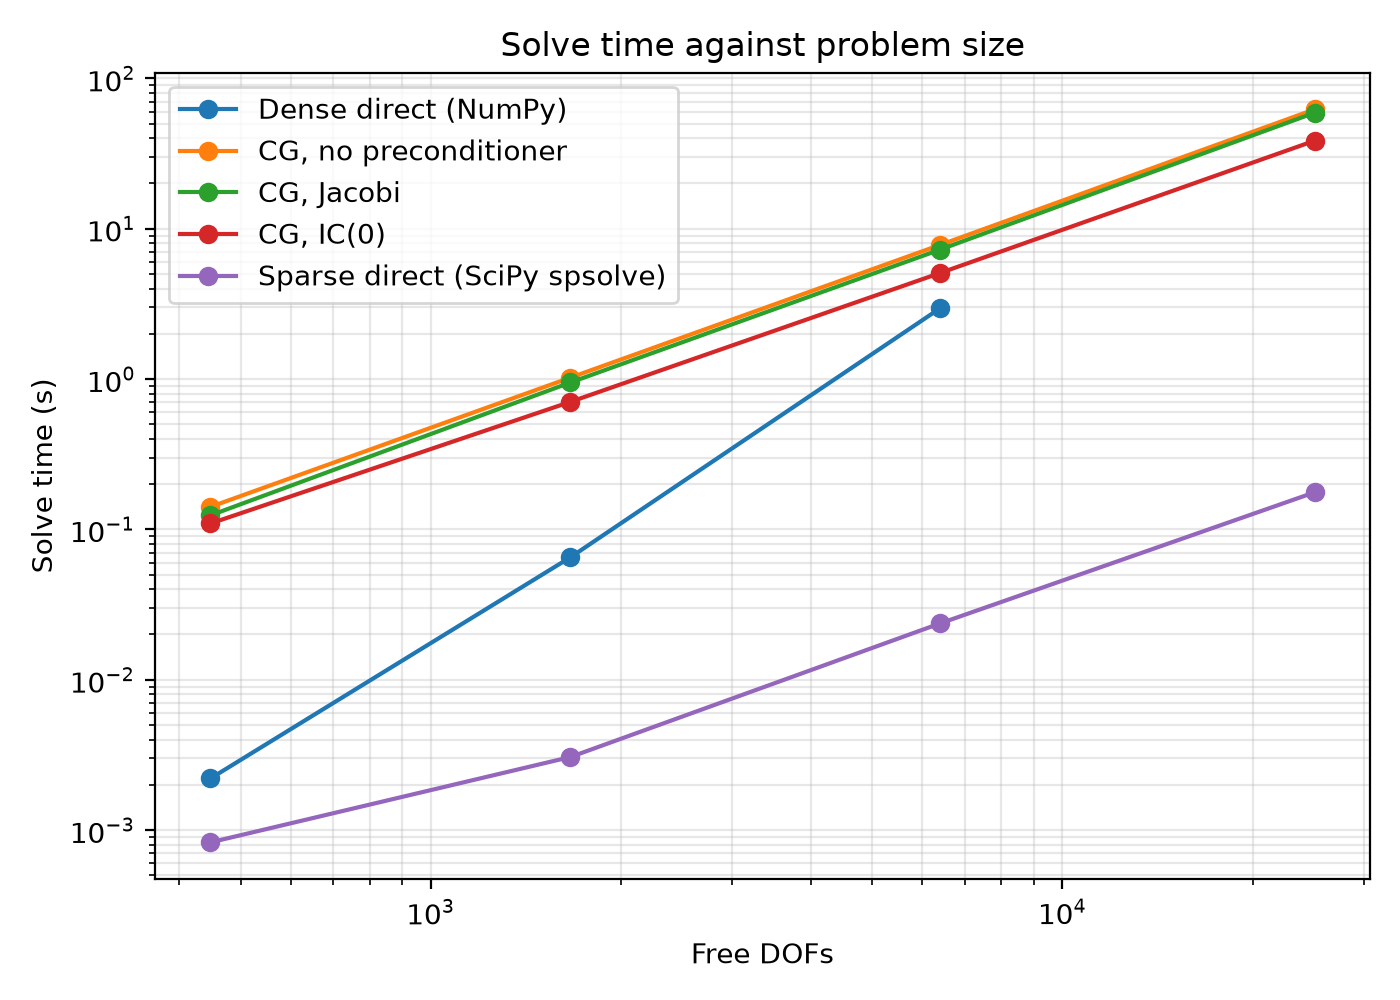
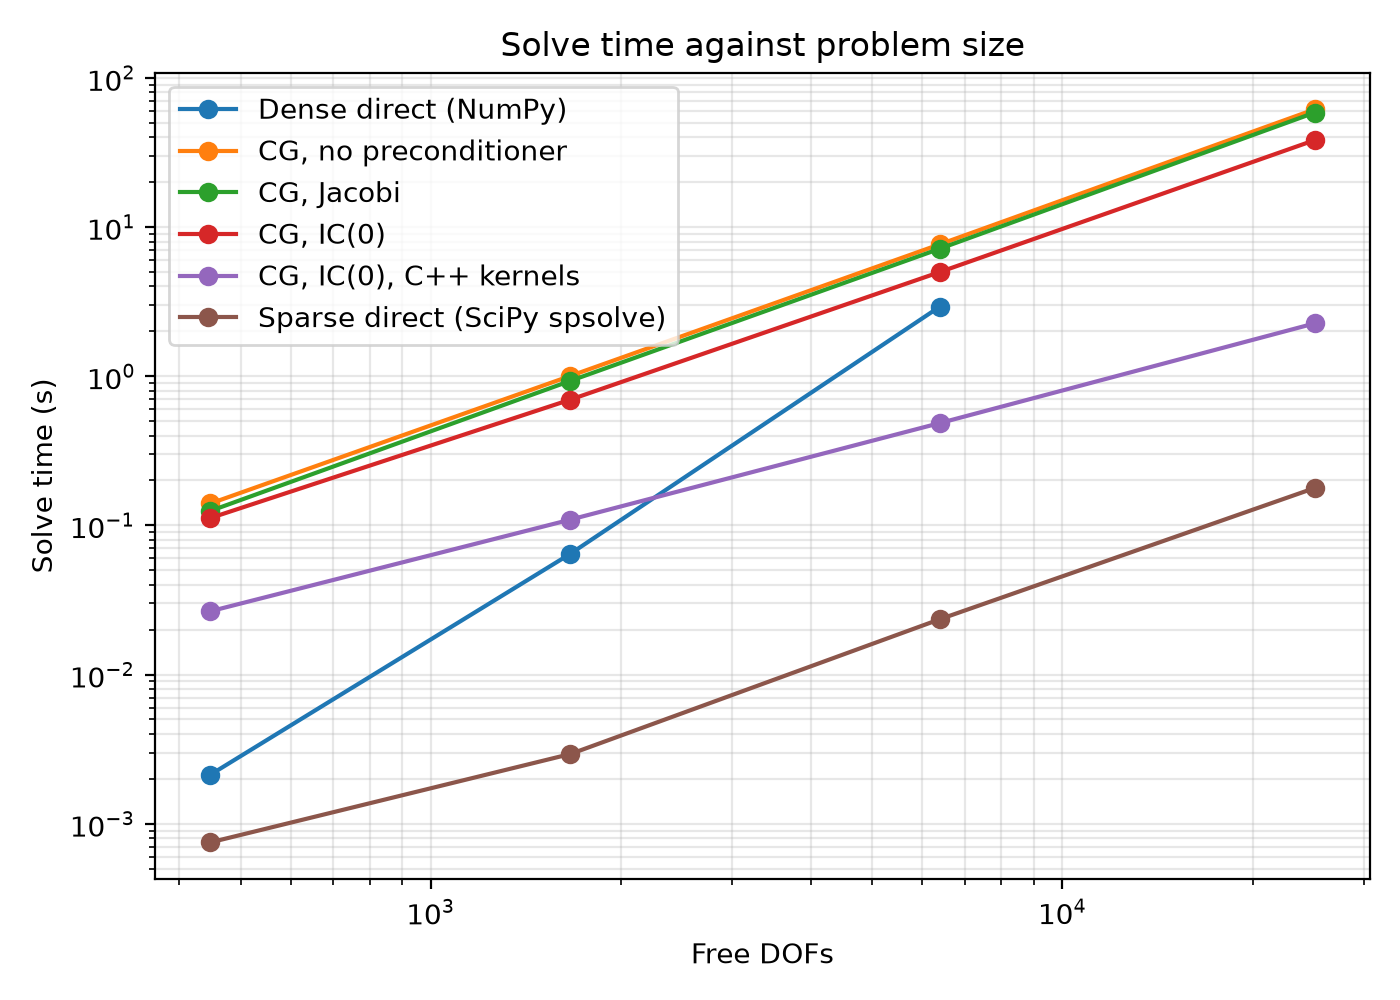
added cpp kernels to the benchmark

diff --git a/examples/benchmark.py b/examples/benchmark.py
@@ -6,14 +6,20 @@ system K_ff u = F_rhs is solved by
 
 - a dense direct solve (NumPy), skipped once K_ff is too large to store densely,
 - a sparse direct solve (SciPy spsolve), used as the reference answer,
-- conjugate gradients with no preconditioner, Jacobi and IC(0).
+- conjugate gradients with no preconditioner, Jacobi and IC(0), each run
+  twice: with the pure-Python kernels and with the C++ kernels
+  (backend="cpp"), which replace the matrix-vector product and the IC(0)
+  triangular solves.
 
 Solve time, CG iterations, storage of K_ff and the error of each answer
 against the reference are recorded. A second pass times each stage of the
-IC(0) path on its own, and checks that the stages add up to the measured
-IC(0) solve time.
+IC(0) path on its own, including one matvec and one forward plus backward
+solve in each backend, and checks for both backends that the stages add
+up to the measured IC(0) solve time.
 
-A table is printed and three log-log plots are saved to docs/images/.
+Three tables are printed (Python backend, C++ backend with its speed-up
+and its gap to SciPy, stage breakdown) and three log-log plots are saved
+to docs/images/.
 The largest grid takes a few minutes; run from any directory with
 
     python examples/benchmark.py
@@ -26,6 +32,7 @@ import numpy as np
 from scipy.sparse import csr_array
 from scipy.sparse.linalg import spsolve
 
+from fesolver import _kernels
 from fesolver.assembly import assemble_triplets
 from fesolver.elements.quad8 import Quad8
 from fesolver.iterative import cg
@@ -41,6 +48,8 @@ LOAD = -1000.0
 DENSE_LIMIT = 10_000   # largest K_ff solved densely (10,000 DOFs is 0.8 GB)
 REPEATS = 10           # calls averaged when timing one matvec or one solve
 IMAGES = Path(__file__).resolve().parent.parent / "docs" / "images"
+CG_RUNS = [('No Preconditioner', None), ('Jacobi', 'jacobi'), ('IC(0)', 'ic0')]
+BACKENDS = [('', 'python'), (' C++', 'cpp')]   # key suffix, backend name
 
 
 def loads_and_supports(mesh):
@@ -93,10 +102,11 @@ def compare_solvers(nx, ny):
     -------
     dict
         Grid name, total and free DOFs; for each solver its time, and for
-        dense and the three CG runs their error against SciPy; CG iteration
-        counts; storage of K_ff in MB, dense and CSR. Dense time and error
-        are None above DENSE_LIMIT free DOFs, where the dense solve is
-        skipped. Dense storage is always computed.
+        dense and the six CG runs their error against SciPy; CG iteration
+        counts; storage of K_ff in MB, dense and CSR. Keys of the C++ runs
+        end in ' C++' before the quantity, e.g. 'IC(0) C++ Time'. Dense time
+        and error are None above DENSE_LIMIT free DOFs, where the dense solve
+        is skipped. Dense storage is always computed.
     """
     mesh = structured_quad8(LENGTH, HEIGHT, nx, ny)
     rows, cols, vals = assemble_triplets(mesh, Quad8, STEEL, THICKNESS)
@@ -127,13 +137,13 @@ def compare_solvers(nx, ny):
         result['Dense Time'] = None
         result['Dense Error'] = None
 
-    for name, preconditioner in [('No Preconditioner', None),
-                                 ('Jacobi', 'jacobi'),
-                                 ('IC(0)', 'ic0')]:
-        (u, history), result[f'{name} Time'] = timed(
-            lambda: cg(K_ff, F_rhs, preconditioner=preconditioner))
-        result[f'{name} Iterations'] = len(history) - 1
-        result[f'{name} Error'] = relative_error(u, u_reference)
+    for name, preconditioner in CG_RUNS:
+        for suffix, backend in BACKENDS:
+            key = f'{name}{suffix}'
+            (u, history), result[f'{key} Time'] = timed(
+                lambda: cg(K_ff, F_rhs, preconditioner=preconditioner, backend=backend))
+            result[f'{key} Iterations'] = len(history) - 1
+            result[f'{key} Error'] = relative_error(u, u_reference)
 
     return result
 
@@ -145,7 +155,8 @@ def stage_breakdown(nx, ny):
     IC(0) factorisation, transpose) are timed once. Stages that run once
     per CG iteration (one matvec, one forward plus backward solve) are
     averaged over REPEATS calls, because a single call is too short to time
-    reliably. The input vector is all ones: the cost depends on the
+    reliably, and are timed for both the Python and the C++ kernels on the
+    same arrays. The input vector is all ones: the cost depends on the
     sparsity pattern, not on the values.
 
     Parameters
@@ -156,7 +167,9 @@ def stage_breakdown(nx, ny):
     Returns
     -------
     dict
-        Grid name and the time of each stage in seconds.
+        Grid name and the time of each stage in seconds. 'Matvec' and
+        'Solve' are the Python kernels, 'C++ Matvec' and 'C++ Solve' the
+        C++ ones.
     """
     mesh = structured_quad8(LENGTH, HEIGHT, nx, ny)
     F, fixed_dofs = loads_and_supports(mesh)
@@ -180,65 +193,107 @@ def stage_breakdown(nx, ny):
         L.backward_solve(L_transposed, L.forward_solve(L, x))
     stages['Solve'] = (time.perf_counter() - start) / REPEATS
 
+    start = time.perf_counter()
+    for _ in range(REPEATS):
+        _kernels.matvec(K_ff.indptr, K_ff.indices, K_ff.data, x)
+    stages['C++ Matvec'] = (time.perf_counter() - start) / REPEATS
+
+    start = time.perf_counter()
+    for _ in range(REPEATS):
+        y = _kernels.forward_solve(L.indptr, L.indices, L.data, x)
+        _kernels.backward_solve(L_transposed.indptr, L_transposed.indices,
+                                L_transposed.data, y)
+    stages['C++ Solve'] = (time.perf_counter() - start) / REPEATS
+
     return stages
 
 
 def check_breakdown(stages, result, rtol=0.2):
-    """Check that the timed stages add up to the measured IC(0) solve time.
+    """Check that the timed stages add up to the measured IC(0) solve times.
 
     The predicted time is the one-off setup (factorisation and transpose)
     plus the number of iterations times the cost of one iteration (one
-    matvec and one forward plus backward solve). The vector updates and
-    dot products inside CG are not timed, so the prediction runs slightly
-    low on small grids.
+    matvec and one forward plus backward solve). It is formed twice, once
+    with the Python per-call times and the Python iteration count, and once
+    with the C++ ones. The vector updates and dot products inside CG are
+    not timed, so the prediction runs slightly low on small grids.
 
     Parameters
     ----------
     stages : dict
         Output of stage_breakdown for one grid. Updated in place with
         'Predicted', 'Ratio' (predicted / measured) and 'Check' ('ok' if
-        within rtol of the measured time, otherwise 're-run').
+        within rtol of the measured time, otherwise 're-run'), and the
+        same three keys prefixed with 'C++ ' for the C++ path.
     result : dict
         Output of compare_solvers for the same grid.
     rtol : float, optional
         Relative tolerance. Defaults to 0.2.
     """
-    measured = result['IC(0) Time']
-    predicted = (stages['IC(0) Factorisation'] + stages['Transpose']
-                 + result['IC(0) Iterations'] * (stages['Matvec'] + stages['Solve']))
-    stages['Predicted'] = predicted
-    stages['Ratio'] = predicted / measured
-    stages['Check'] = 'ok' if np.isclose(measured, predicted, rtol=rtol) else 're-run'
+    setup = stages['IC(0) Factorisation'] + stages['Transpose']
+    for prefix, suffix in [('', ''), ('C++ ', ' C++')]:
+        measured = result[f'IC(0){suffix} Time']
+        per_iteration = stages[f'{prefix}Matvec'] + stages[f'{prefix}Solve']
+        predicted = setup + result[f'IC(0){suffix} Iterations'] * per_iteration
+        stages[f'{prefix}Predicted'] = predicted
+        stages[f'{prefix}Ratio'] = predicted / measured
+        stages[f'{prefix}Check'] = 'ok' if np.isclose(measured, predicted, rtol=rtol) else 're-run'
 
 
 def print_tables(results, breakdowns):
-    """Print the solver comparison and the stage breakdown, one row per grid."""
+    """Print the solver comparison and the stage breakdown, one row per grid.
+
+    Three tables: the Python backend with the direct solvers and storage;
+    the C++ backend with the speed-up of its IC(0) solve over the Python
+    one and its gap to SciPy (C++ IC(0) time / SciPy time); and the stage
+    breakdown with per-call kernel speed-ups and both stage checks.
+    """
     def fmt(value):
         return '-' if value is None else f'{value:.3g}'
 
-    print('\nSolve time (s), CG iterations in brackets, storage of K_ff (MB)')
+    def cg_cols(r, suffix):
+        return [f"{fmt(r[f'{name}{suffix} Time'])} ({r[f'{name}{suffix} Iterations']})"
+                for name, _ in CG_RUNS]
+
+    print('\nPython backend: solve time (s), CG iterations in brackets, storage of K_ff (MB)')
     print(f"{'Grid':>7} {'Free DOFs':>9} {'Dense':>8} {'SciPy':>8} "
           f"{'CG':>13} {'Jacobi':>13} {'IC(0)':>13} {'Dense MB':>9} {'CSR MB':>7}")
     for r in results:
-        cg_cols = [f"{fmt(r[f'{k} Time'])} ({r[f'{k} Iterations']})"
-                   for k in ('No Preconditioner', 'Jacobi', 'IC(0)')]
+        cols = cg_cols(r, '')
         print(f"{r['Grid']:>7} {r['Free DOFs']:>9} {fmt(r['Dense Time']):>8} "
-              f"{fmt(r['SciPy Time']):>8} {cg_cols[0]:>13} {cg_cols[1]:>13} "
-              f"{cg_cols[2]:>13} {fmt(r['Dense Memory']):>9} {fmt(r['CSR Memory']):>7}")
+              f"{fmt(r['SciPy Time']):>8} {cols[0]:>13} {cols[1]:>13} "
+              f"{cols[2]:>13} {fmt(r['Dense Memory']):>9} {fmt(r['CSR Memory']):>7}")
 
-    worst = max(r[f'{k} Error'] for r in results
-                for k in ('No Preconditioner', 'Jacobi', 'IC(0)', 'Dense')
+    print('\nC++ backend: solve time (s), CG iterations in brackets')
+    print(f"{'Grid':>7} {'Free DOFs':>9} {'CG':>13} {'Jacobi':>13} {'IC(0)':>13} "
+          f"{'IC(0) speed-up':>14} {'Gap to SciPy':>12}")
+    for r in results:
+        cols = cg_cols(r, ' C++')
+        speed_up = r['IC(0) Time'] / r['IC(0) C++ Time']
+        gap = r['IC(0) C++ Time'] / r['SciPy Time']
+        print(f"{r['Grid']:>7} {r['Free DOFs']:>9} {cols[0]:>13} {cols[1]:>13} "
+              f"{cols[2]:>13} {speed_up:>13.1f}x {gap:>11.0f}x")
+
+    error_keys = ['Dense'] + [f'{name}{suffix}' for name, _ in CG_RUNS
+                              for suffix, _ in BACKENDS]
+    worst = max(r[f'{k} Error'] for r in results for k in error_keys
                 if r[f'{k} Error'] is not None)
     print(f'Largest relative error against SciPy spsolve: {worst:.1e}')
 
     keys = ['Element Loop', 'CSR Build', 'Partitioning', 'IC(0) Factorisation',
-            'Transpose', 'Matvec', 'Solve']
+            'Transpose', 'Matvec', 'C++ Matvec', 'Solve', 'C++ Solve']
     print('\nStage breakdown (s); Matvec and Solve are per call')
-    print(f"{'Grid':>7} " + ' '.join(f'{k:>{max(len(k), 8)}}' for k in keys)
-          + f" {'Predicted':>9} {'Ratio':>6} {'Check':>6}")
+    print(f"{'Grid':>7} " + ' '.join(f'{k:>{max(len(k), 8)}}' for k in keys))
     for s in breakdowns:
-        print(f"{s['Grid']:>7} " + ' '.join(f'{fmt(s[k]):>{max(len(k), 8)}}' for k in keys)
-              + f" {fmt(s['Predicted']):>9} {s['Ratio']:>6.2f} {s['Check']:>6}")
+        print(f"{s['Grid']:>7} " + ' '.join(f'{fmt(s[k]):>{max(len(k), 8)}}' for k in keys))
+
+    print('\nKernel speed-up per call (Python / C++) and stage check (predicted / measured IC(0) time)')
+    print(f"{'Grid':>7} {'Matvec':>8} {'Solve':>8} {'Python ratio':>12} {'Check':>6} "
+          f"{'C++ ratio':>9} {'Check':>6}")
+    for s in breakdowns:
+        print(f"{s['Grid']:>7} {s['Matvec'] / s['C++ Matvec']:>7.0f}x "
+              f"{s['Solve'] / s['C++ Solve']:>7.0f}x {s['Ratio']:>12.2f} {s['Check']:>6} "
+              f"{s['C++ Ratio']:>9.2f} {s['C++ Check']:>6}")
 
 
 def plot_lines(x, series, ylabel, title, filename):
@@ -277,6 +332,7 @@ def plot_results(results):
                    ('CG, no preconditioner', column('No Preconditioner Time')),
                    ('CG, Jacobi', column('Jacobi Time')),
                    ('CG, IC(0)', column('IC(0) Time')),
+                   ('CG, IC(0), C++ kernels', column('IC(0) C++ Time')),
                    ('Sparse direct (SciPy spsolve)', column('SciPy Time'))],
                'Solve time (s)', 'Solve time against problem size',
                'benchmark_time.png')
